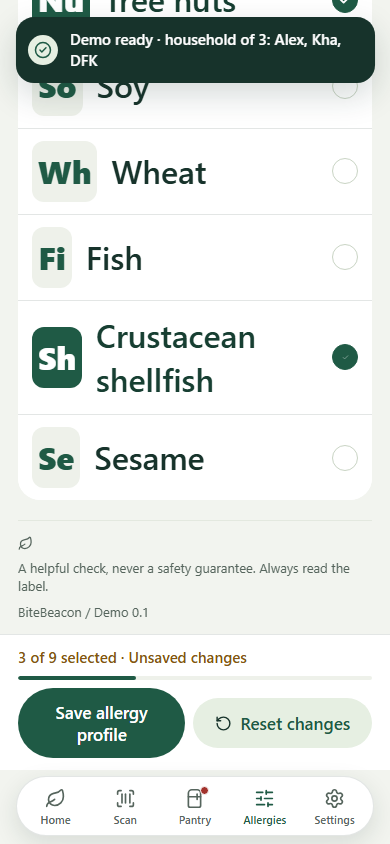
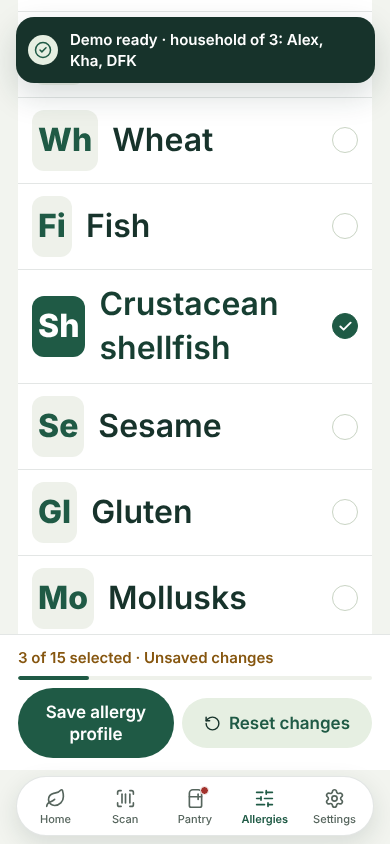
Add six more allergens: gluten, mollusks, mustard, celery, sulfites, lupin
Brings the list to 15, matching the EU/UK, Canada and Australia lists.
Gluten covers every gluten grain for celiac users; Wheat stays wheat-only.
Evidence now credits a shared word to each allergen that uses it.
New migration widens the allowed allergy ids on profiles and household members.

Claude-Session: https://claude.ai/code/session_01GomzdaNL28CGHYvwakV8Zu

diff --git a/src/i18n/bn.ts b/src/i18n/bn.ts
@@ -11,6 +11,7 @@ export const bn: Messages = {
 
   'allergen.milk': 'দুধ', 'allergen.eggs': 'ডিম', 'allergen.peanuts': 'চিনাবাদাম', 'allergen.tree-nuts': 'গাছের বাদাম', 'allergen.soy': 'সয়া',
   'allergen.wheat': 'গম', 'allergen.fish': 'মাছ', 'allergen.shellfish': 'খোলসযুক্ত প্রাণী (চিংড়ি, কাঁকড়া, লবস্টার)', 'allergen.sesame': 'তিল',
+  'allergen.gluten': 'গ্লুটেন', 'allergen.mollusks': 'মলাস্ক (ঝিনুক, স্কুইড)', 'allergen.mustard': 'সরিষা', 'allergen.celery': 'সেলারি', 'allergen.sulfites': 'সালফাইট', 'allergen.lupin': 'লুপিন',
 
   'common.cancel': 'বাতিল', 'common.unknown': 'অজানা', 'common.you': 'আপনি', 'common.listSeparator': ', ',
 
@@ -54,8 +55,8 @@ export const bn: Messages = {
   'samples.title': 'চেষ্টা করে দেখুন', 'samples.body': 'চারটি কাল্পনিক পণ্য। চারটি কাজের ফলাফল।', 'samples.label': 'ডেমো সংগ্রহ',
   'samples.try': '{name} চেষ্টা করুন', 'samples.fictional': 'কাল্পনিক নমুনা',
 
-  'allergies.title': 'আপনার অ্যালার্জি, সবার আগে।', 'allergies.body': 'যুক্তরাষ্ট্রের নয়টি প্রধান খাদ্য অ্যালার্জেন থেকে বেছে নিন। প্রযোজ্য সবগুলো নির্বাচন করুন।',
-  'allergies.notice': 'এই অ্যাপ সব অ্যালার্জি কভার করে না। গম মানে গ্লুটেন বা সিলিয়াক রোগের যাচাই নয়। খোলসযুক্ত প্রাণী (চিংড়ি, কাঁকড়া) বলতে ঝিনুক, শামুক বা স্কুইড জাতীয় মলাস্ক বোঝায় না।',
+  'allergies.title': 'আপনার অ্যালার্জি, সবার আগে।', 'allergies.body': '১৫টি সাধারণ খাদ্য অ্যালার্জেন থেকে বেছে নিন: যুক্তরাষ্ট্রের নয়টি প্রধান অ্যালার্জেন এবং ইউরোপ ও কানাডায় তালিকাভুক্ত আরও ছয়টি। প্রযোজ্য সবগুলো নির্বাচন করুন।',
+  'allergies.notice': 'এই অ্যাপ সব অ্যালার্জি কভার করে না। গম শুধু গম যাচাই করে; বার্লি, রাই ও ওটসও যাচাই করতে গ্লুটেন বেছে নিন। খোলসযুক্ত প্রাণী (চিংড়ি, কাঁকড়া) বলতে মলাস্ক বোঝায় না; ঝিনুক, শামুক বা স্কুইডের জন্য মলাস্ক বেছে নিন।',
   'allergies.hint': 'অ্যালার্জি প্রোফাইল সংরক্ষণ করার পর পরিবর্তন কার্যকর হবে।',
   'allergies.chooseOne': 'বারকোড যাচাই ব্যবহার করতে অন্তত একটি অ্যালার্জি বেছে নিন।',
   'allergies.savedDemo': 'অ্যালার্জি প্রোফাইল সংরক্ষিত হয়েছে। ফলাফল এখন এই নির্বাচন অনুযায়ী হবে। শুধু ডেমো: এই সেশন শেষ হওয়া পর্যন্ত পরিবর্তন থাকবে।',

diff --git a/src/domain/allergens.ts b/src/domain/allergens.ts
@@ -8,6 +8,14 @@ export const ALLERGENS = [
   { id: 'fish', plain: ['fish'] as string[], label: 'Fish', mark: 'Fi', tags: ['fish'], words: ['fish', 'salmon', 'tuna', 'cod', 'anchovy', 'anchovies', 'haddock'] },
   { id: 'shellfish', plain: [] as string[], label: 'Crustacean shellfish', mark: 'Sh', tags: ['crustaceans', 'shrimp', 'crab', 'lobster'], words: ['shrimp', 'prawn', 'prawns', 'crab', 'lobster', 'crayfish'] },
   { id: 'sesame', plain: ['sesame'] as string[], label: 'Sesame', mark: 'Se', tags: ['sesame-seeds', 'sesame'], words: ['sesame', 'tahini', 'benne'] },
+  // The six below complete the EU/UK, Canada and Australia lists. Open Food Facts tags them too; USDA only gives ingredient text.
+  // Gluten covers every gluten grain, wheat included, for people with celiac disease; Wheat stays wheat-only.
+  { id: 'gluten', plain: ['gluten'] as string[], label: 'Gluten', mark: 'Gl', tags: ['gluten'], words: ['gluten', 'wheat', 'semolina', 'spelt', 'durum', 'bulgur', 'farina', 'barley', 'rye', 'oat', 'oats', 'malt', 'malted', 'triticale', 'kamut', 'seitan', 'einkorn', 'emmer', 'farro'] },
+  { id: 'mollusks', plain: ['mollusk', 'mollusks', 'mollusc', 'molluscs'] as string[], label: 'Mollusks', mark: 'Mo', tags: ['molluscs', 'mollusks'], words: ['mollusk', 'mollusks', 'mollusc', 'molluscs', 'clam', 'clams', 'mussel', 'mussels', 'oyster', 'oysters', 'scallop', 'scallops', 'squid', 'calamari', 'octopus', 'cuttlefish', 'abalone', 'snail', 'snails', 'escargot', 'whelk', 'whelks', 'conch'] },
+  { id: 'mustard', plain: ['mustard'] as string[], label: 'Mustard', mark: 'Mu', tags: ['mustard'], words: ['mustard'] },
+  { id: 'celery', plain: ['celery'] as string[], label: 'Celery', mark: 'Ce', tags: ['celery'], words: ['celery', 'celeriac'] },
+  { id: 'sulfites', plain: ['sulfite', 'sulfites', 'sulphite', 'sulphites', 'sulfur dioxide', 'sulphur dioxide'] as string[], label: 'Sulfites', mark: 'Su', tags: ['sulphur-dioxide-and-sulphites', 'sulfites', 'sulphites'], words: ['sulfite', 'sulfites', 'sulphite', 'sulphites', 'sulfur dioxide', 'sulphur dioxide', 'bisulfite', 'bisulphite', 'metabisulfite', 'metabisulphite', 'e220', 'e221', 'e222', 'e223', 'e224', 'e225', 'e226', 'e227', 'e228'] },
+  { id: 'lupin', plain: ['lupin', 'lupine'] as string[], label: 'Lupin', mark: 'Lu', tags: ['lupin'], words: ['lupin', 'lupine', 'lupini'] },
 ] as const;
 export type AllergenId = typeof ALLERGENS[number]['id'];
 export type Product = {
@@ -78,8 +86,9 @@ export function explain(product: Product, selected: AllergenId[]): Evidence[] {
     for (const t of product.traces) if ((a.tags as readonly string[]).includes(tag(t))) add({ allergen: a.label, via: 'trace', term: clean(t) });
   }
   // A plain word adds nothing once a tag already names that allergen ("milk" next to tag "milk"); hidden sources always stay.
+  // Each allergen is scanned on its own, so a word shared by two ("wheat" for Wheat and Gluten) is evidence for both.
   const tagged = new Set(out.filter(e => e.via === 'tag').map(e => e.allergen));
-  for (const s of highlightIngredients(product.ingredients, selected)) if (s.allergen && (s.hidden || !tagged.has(s.allergen))) add({ allergen: s.allergen, via: s.hidden ? 'hidden' : 'ingredient', term: s.text.toLowerCase() });
+  for (const id of selected) for (const s of highlightIngredients(product.ingredients, [id])) if (s.allergen && (s.hidden || !tagged.has(s.allergen))) add({ allergen: s.allergen, via: s.hidden ? 'hidden' : 'ingredient', term: s.text.toLowerCase() });
   // Group by allergen so each one's reasons read together; within one, hidden sources lead because they are the ones people miss.
   const order = (e: Evidence) => ALLERGENS.findIndex(a => a.label === e.allergen) * 10 + ['hidden', 'tag', 'ingredient', 'trace'].indexOf(e.via);
   return out.sort((x, y) => order(x) - order(y));

diff --git a/src/i18n/vi.ts b/src/i18n/vi.ts
@@ -11,6 +11,7 @@ export const vi: Messages = {
 
   'allergen.milk': 'Sữa', 'allergen.eggs': 'Trứng', 'allergen.peanuts': 'Đậu phộng (lạc)', 'allergen.tree-nuts': 'Các loại hạt cây', 'allergen.soy': 'Đậu nành',
   'allergen.wheat': 'Lúa mì', 'allergen.fish': 'Cá', 'allergen.shellfish': 'Động vật giáp xác (tôm, cua…)', 'allergen.sesame': 'Mè (vừng)',
+  'allergen.gluten': 'Gluten', 'allergen.mollusks': 'Động vật thân mềm (nghêu, hàu, mực…)', 'allergen.mustard': 'Mù tạt', 'allergen.celery': 'Cần tây', 'allergen.sulfites': 'Sulfit', 'allergen.lupin': 'Đậu lupin',
 
   'common.cancel': 'Hủy', 'common.unknown': 'không rõ', 'common.you': 'Bạn', 'common.listSeparator': ', ',
 
@@ -54,8 +55,8 @@ export const vi: Messages = {
   'samples.title': 'Thử ngay', 'samples.body': 'Bốn sản phẩm hư cấu. Bốn kết quả hữu ích.', 'samples.label': 'BỘ SƯU TẬP DEMO',
   'samples.try': 'Thử {name}', 'samples.fictional': 'Mẫu hư cấu',
 
-  'allergies.title': 'Dị ứng của bạn, luôn được ưu tiên.', 'allergies.body': 'Chọn từ chín chất gây dị ứng thực phẩm chính tại Mỹ. Chọn tất cả những gì áp dụng.',
-  'allergies.notice': 'Ứng dụng này không bao gồm mọi loại dị ứng. Lúa mì không phải là kiểm tra gluten hay bệnh celiac. Động vật giáp xác không bao gồm động vật thân mềm.',
+  'allergies.title': 'Dị ứng của bạn, luôn được ưu tiên.', 'allergies.body': 'Chọn từ 15 chất gây dị ứng thực phẩm phổ biến: chín chất chính tại Mỹ và sáu chất khác được liệt kê ở châu Âu và Canada. Chọn tất cả những gì áp dụng.',
+  'allergies.notice': 'Ứng dụng này không bao gồm mọi loại dị ứng. Lúa mì chỉ kiểm tra lúa mì; hãy chọn Gluten để kiểm tra cả lúa mạch, lúa mạch đen và yến mạch. Động vật giáp xác không bao gồm động vật thân mềm; hãy chọn Động vật thân mềm cho nghêu, hàu và mực.',
   'allergies.hint': 'Thay đổi có hiệu lực sau khi lưu hồ sơ dị ứng.',
   'allergies.chooseOne': 'Chọn ít nhất một loại dị ứng để dùng chức năng kiểm tra mã vạch.',
   'allergies.savedDemo': 'Đã lưu hồ sơ dị ứng. Kết quả giờ dùng các lựa chọn này. Chỉ là demo: thay đổi giữ đến khi phiên này kết thúc.',

diff --git a/tests/allergens.test.ts b/tests/allergens.test.ts
@@ -35,6 +35,24 @@ describe('allergy decisions', () => {
   it.each(ALLERGENS)('matches structured tags for $label', allergen => {
     expect(assess({ ...SAMPLES[2], allergens: [`en:${allergen.tags[0]}`] }, [allergen.id]).kind).toBe('contains');
   });
+  it.each([
+    ['gluten', 'Water, barley malt, salt.'], ['gluten', 'Rolled oats.'], ['gluten', 'Enriched wheat flour.'],
+    ['mollusks', 'Oyster sauce, garlic.'], ['mollusks', 'Fried calamari.'], ['mustard', 'Vinegar, mustard seed.'],
+    ['celery', 'Carrot, celery, onion.'], ['sulfites', 'Grapes, sodium metabisulfite.'], ['sulfites', 'Apricots, sulphur dioxide.'],
+    ['sulfites', 'Lemon juice, preservative (E223).'], ['lupin', 'Lupin flour, rice.'],
+  ] as [AllergenId, string][])('finds %s in "%s"', (id, ingredients) => {
+    expect(assess({ ...SAMPLES[2], ingredients }, [id]).kind).toBe('contains');
+  });
+  it('keeps Wheat wheat-only while Gluten covers every gluten grain', () => {
+    const rye = { ...SAMPLES[2], ingredients: 'Rye flour, water, salt.' };
+    expect(assess(rye, ['wheat']).kind).not.toBe('contains');
+    expect(assess(rye, ['gluten']).kind).toBe('contains');
+    expect(assess({ ...SAMPLES[2], ingredients: 'Maltodextrin, sugar.' }, ['gluten']).kind).not.toBe('contains');
+  });
+  it('treats a structured gluten tag as a match when Gluten is selected', () => {
+    expect(assess({ ...SAMPLES[2], allergens: ['en:gluten'] }, ['gluten']).kind).toBe('contains');
+    expect(assess({ ...SAMPLES[2], allergens: ['en:gluten'] }, ['wheat']).reason).toBe('gluten');
+  });
   it('recalculates for changed allergies', () => {
     expect(assess(SAMPLES[0], ['sesame']).kind).toBe('no-match');
     expect(assess(SAMPLES[0], ['milk']).kind).toBe('contains');
@@ -58,6 +76,10 @@ describe('provider normalization', () => {
   });
 });
 describe('result evidence', () => {
+  it('credits a shared word to every selected allergen that uses it', () => {
+    const e = explain({ ...SAMPLES[2], ingredients: 'Wheat flour, water.' }, ['wheat', 'gluten']);
+    expect(e.map(x => x.allergen)).toEqual(['Wheat', 'Gluten']);
+  });
   const base = { ...SAMPLES[2], allergens: [], traces: [] };
   it('highlights the exact ingredient words that matched, keeping the original text', () => {
     const segs = highlightIngredients('Sugar, Whey powder, tahini.', ['milk', 'sesame']);

diff --git a/src/i18n/es.ts b/src/i18n/es.ts
@@ -11,6 +11,7 @@ export const es: Messages = {
 
   'allergen.milk': 'Leche', 'allergen.eggs': 'Huevo', 'allergen.peanuts': 'Cacahuate (maní)', 'allergen.tree-nuts': 'Nueces de árbol', 'allergen.soy': 'Soya',
   'allergen.wheat': 'Trigo', 'allergen.fish': 'Pescado', 'allergen.shellfish': 'Mariscos crustáceos', 'allergen.sesame': 'Ajonjolí (sésamo)',
+  'allergen.gluten': 'Gluten', 'allergen.mollusks': 'Moluscos', 'allergen.mustard': 'Mostaza', 'allergen.celery': 'Apio', 'allergen.sulfites': 'Sulfitos', 'allergen.lupin': 'Altramuz (lupino)',
 
   'common.cancel': 'Cancelar', 'common.unknown': 'desconocido', 'common.you': 'Tú', 'common.listSeparator': ', ',
 
@@ -54,8 +55,8 @@ export const es: Messages = {
   'samples.title': 'Pruébala', 'samples.body': 'Cuatro productos ficticios. Cuatro resultados útiles.', 'samples.label': 'COLECCIÓN DEMO',
   'samples.try': 'Probar {name}', 'samples.fictional': 'Ejemplo ficticio',
 
-  'allergies.title': 'Tus alergias, en primer plano.', 'allergies.body': 'Elige entre los nueve alérgenos alimentarios principales de EE. UU. Selecciona todos los que apliquen.',
-  'allergies.notice': 'Esta app no cubre todas las alergias. Trigo no es una revisión de gluten ni de enfermedad celíaca. Mariscos crustáceos no incluye moluscos.',
+  'allergies.title': 'Tus alergias, en primer plano.', 'allergies.body': 'Elige entre 15 alérgenos alimentarios comunes: los nueve principales de EE. UU. y seis más que se declaran en Europa y Canadá. Selecciona todos los que apliquen.',
+  'allergies.notice': 'Esta app no cubre todas las alergias. Trigo solo revisa el trigo; elige Gluten para revisar también cebada, centeno y avena. Mariscos crustáceos no incluye moluscos; elige Moluscos para almejas, ostras y calamares.',
   'allergies.hint': 'Los cambios se aplican después de guardar tu perfil de alergias.',
   'allergies.chooseOne': 'Elige al menos una alergia para usar la revisión por código de barras.',
   'allergies.savedDemo': 'Perfil de alergias guardado. Los resultados ahora usan estas selecciones. Solo demo: los cambios duran hasta que termine esta sesión.',

diff --git a/tests/database.test.ts b/tests/database.test.ts
@@ -19,6 +19,7 @@ beforeAll(async () => {
   await db.exec(readFileSync('supabase/migrations/202610140001_household_members.sql', 'utf8'));
   await db.exec(readFileSync('supabase/migrations/202610140002_profile_language.sql', 'utf8'));
   await db.exec(readFileSync('supabase/migrations/202610150001_pantry_items.sql', 'utf8'));
+  await db.exec(readFileSync('supabase/migrations/202610150003_more_allergens.sql', 'utf8'));
 });
 afterAll(async () => { await db?.close(); });
 async function asUser(id: string) { await db.exec(`reset role; set role authenticated; select set_config('request.jwt.claim.sub','${id}', false);`); }
@@ -177,5 +178,19 @@ describe('pantry items', () => {
     expect((await db.query('select id from public.pantry_items where owner_id = $1', [G])).rows).toHaveLength(0);
     await db.exec('set role anon;');
     await expect(db.query('select * from public.pantry_items')).rejects.toThrow(/permission denied/);
+  });
+});
+
+describe('more allergens', () => {
+  const H = '88888888-8888-4888-8888-888888888888';
+  const all15 = "array['milk','eggs','peanuts','tree-nuts','soy','wheat','fish','shellfish','sesame','gluten','mollusks','mustard','celery','sulfites','lupin']";
+  it('accepts all 15 allergens for profiles and household members, and still rejects unknown ones', async () => {
+    await db.exec(`reset role; insert into auth.users values ('${H}');`);
+    await asUser(H);
+    await db.query(`insert into public.profiles(id, allergies, consent_version) values ($1, ${all15}, '2026-09-30')`, [H]);
+    expect((await db.query<{ allergies: string[] }>('select allergies from public.profiles where id = $1', [H])).rows[0].allergies).toHaveLength(15);
+    await db.query(`insert into public.household_members(name, allergies) values ('Sam', array['gluten','mollusks'])`);
+    await expect(db.query(`update public.profiles set allergies = array['banana'] where id = $1`, [H])).rejects.toThrow(/supported_allergies/);
+    await expect(db.query(`insert into public.household_members(name, allergies) values ('Kim', array['kiwi'])`)).rejects.toThrow(/member_supported_allergies/);
   });
 });

diff --git a/src/i18n/zh.ts b/src/i18n/zh.ts
@@ -11,6 +11,7 @@ export const zh: Messages = {
 
   'allergen.milk': '牛奶', 'allergen.eggs': '鸡蛋', 'allergen.peanuts': '花生', 'allergen.tree-nuts': '树坚果', 'allergen.soy': '大豆',
   'allergen.wheat': '小麦', 'allergen.fish': '鱼类', 'allergen.shellfish': '甲壳类水产', 'allergen.sesame': '芝麻',
+  'allergen.gluten': '麸质', 'allergen.mollusks': '软体动物', 'allergen.mustard': '芥末', 'allergen.celery': '芹菜', 'allergen.sulfites': '亚硫酸盐', 'allergen.lupin': '羽扇豆',
 
   'common.cancel': '取消', 'common.unknown': '未知', 'common.you': '你', 'common.listSeparator': '、',
 
@@ -54,8 +55,8 @@ export const zh: Messages = {
   'samples.title': '试一试', 'samples.body': '四款虚构商品，四种实用结果。', 'samples.label': '演示合集',
   'samples.try': '试试 {name}', 'samples.fictional': '虚构示例',
 
-  'allergies.title': '你的过敏原，一目了然。', 'allergies.body': '从美国九大主要食物过敏原中选择，可多选。',
-  'allergies.notice': '本应用无法涵盖所有过敏。小麦不等于麸质检查，也不能用于乳糜泻检查。甲壳类水产不包括软体动物。',
+  'allergies.title': '你的过敏原，一目了然。', 'allergies.body': '从15种常见食物过敏原中选择：美国九大主要过敏原，另加欧洲和加拿大列出的六种。可多选。',
+  'allergies.notice': '本应用无法涵盖所有过敏。“小麦”只检查小麦；如需同时检查大麦、黑麦和燕麦，请选择“麸质”。甲壳类水产不包括软体动物；如需检查蛤蜊、牡蛎和鱿鱼，请选择“软体动物”。',
   'allergies.hint': '保存过敏档案后，更改才会生效。',
   'allergies.chooseOne': '请至少选择一种过敏原，才能使用条码检查。',
   'allergies.savedDemo': '过敏档案已保存，结果将使用这些选择。仅限演示：更改在本次会话结束前有效。',

diff --git a/src/i18n/en.ts b/src/i18n/en.ts
@@ -11,6 +11,7 @@ export const en = {
 
   'allergen.milk': 'Milk', 'allergen.eggs': 'Eggs', 'allergen.peanuts': 'Peanuts', 'allergen.tree-nuts': 'Tree nuts', 'allergen.soy': 'Soy',
   'allergen.wheat': 'Wheat', 'allergen.fish': 'Fish', 'allergen.shellfish': 'Crustacean shellfish', 'allergen.sesame': 'Sesame',
+  'allergen.gluten': 'Gluten', 'allergen.mollusks': 'Mollusks', 'allergen.mustard': 'Mustard', 'allergen.celery': 'Celery', 'allergen.sulfites': 'Sulfites', 'allergen.lupin': 'Lupin',
 
   'common.cancel': 'Cancel', 'common.unknown': 'unknown', 'common.you': 'You', 'common.listSeparator': ', ',
 
@@ -54,8 +55,8 @@ export const en = {
   'samples.title': 'Give it a try', 'samples.body': 'Four fictional products. Four useful outcomes.', 'samples.label': 'DEMO COLLECTION',
   'samples.try': 'Try {name}', 'samples.fictional': 'Fictional sample',
 
-  'allergies.title': 'Your allergies, front and center.', 'allergies.body': 'Choose from the nine US major food allergens. Select all that apply.',
-  'allergies.notice': 'This app does not cover every allergy. Wheat is not a gluten or celiac-disease check. Crustacean shellfish does not cover mollusks.',
+  'allergies.title': 'Your allergies, front and center.', 'allergies.body': 'Choose from 15 common food allergens: the nine US major allergens plus six more listed in Europe and Canada. Select all that apply.',
+  'allergies.notice': 'This app does not cover every allergy. Wheat checks wheat only; choose Gluten to also check barley, rye and oats. Crustacean shellfish does not cover mollusks; choose Mollusks for clams, oysters and squid.',
   'allergies.hint': 'Changes apply after saving your allergy profile.',
   'allergies.chooseOne': 'Choose at least one allergy to use barcode checking.',
   'allergies.savedDemo': 'Allergy profile saved. Results now use these selections. Demo only: changes last until this session ends.',

diff --git a/tests/e2e/demo.spec.ts b/tests/e2e/demo.spec.ts
@@ -64,7 +64,7 @@ test('small phone allergy controls stay reachable and navigation resets scroll',
   await expect(save).toBeInViewport();
   await expect(page.getByRole('heading', { name: 'Your allergies, front and center.' })).toBeInViewport();
   await page.getByRole('checkbox', { name: 'Crustacean shellfish', exact: true }).click();
-  await expect(page.getByText('3 of 9 selected · Unsaved changes')).toBeVisible();
+  await expect(page.getByText('3 of 15 selected · Unsaved changes')).toBeVisible();
   await expect(save).toBeInViewport();
   await page.getByRole('button', { name: 'Reset changes' }).click();
   await expect(page.getByRole('checkbox', { name: 'Crustacean shellfish', exact: true })).not.toBeChecked();

diff --git a/wiki/README.md b/wiki/README.md
@@ -73,7 +73,7 @@ Latest final results recorded after implementation below. See `tests/` for repea
 
 - Main content now has a bounded flexible scroll area; switching pages mounts a fresh scroll view so previous page scroll positions cannot hide new headings.
 - Replaced tall allergy tiles with compact, full-width rows on phones. Wider layouts use percentage columns; large native font scales switch to one column. Labels wrap without truncation or fixed row heights.
-- Allergy Save controls remain outside scrolling content, above navigation. Selection count, unsaved status, Reset changes and save/error feedback remain reachable while browsing all nine choices. Reset restores saved selections; only successful Save changes assessment profile. Unsaved drafts survive navigation.
+- Allergy Save controls remain outside scrolling content, above navigation. Selection count, unsaved status, Reset changes and save/error feedback remain reachable while browsing all 15 choices. Reset restores saved selections; only successful Save changes assessment profile. Unsaved drafts survive navigation.
 - Larger mobile navigation labels and padded targets; wrapping button labels/header; page heading semantics, live feedback and checkbox hints/disabled state. Explicit aria-checked fixes missing checked semantics in React Native Web while keeping native accessibilityState.
 - Validation: TypeScript passed; all 47 domain/database tests passed; four deterministic Playwright flows passed, including 320 x 640 scrolling, last allergy reachability, persistent Save/feedback, reset, navigation scroll reset and 390 x 844 enlarged-label wrapping. Mobile screenshots inspected. Production web export passed.
 - Browser enlarged-label fixture is not native font-scaling validation. Physical iOS/Android Dynamic Type, VoiceOver/TalkBack, keyboard and short-landscape acceptance remain pending. No Lua/Luau changed; Selene not applicable.
@@ -166,3 +166,11 @@ Latest final results recorded after implementation below. See `tests/` for repea
 - Copy updated in all five languages: sign-up consent now says pantry products are stored; App details explains browser sessions; web camera note.
 - Hosting checklist still open: set Supabase Auth Site URL + redirect URLs to the domain; move USDA lookups behind a Supabase Edge Function so the key is not in the page; HTTPS (most hosts automatic). If the site is served from a sub-path, the decoder URL follows `document.baseURI`.
 - Validation: TypeScript passed; 103 unit/database tests passed (new decoder-copy check); 17 Playwright flows passed, live skipped. New `web-camera.spec.ts` feeds Chromium a generated EAN-13 video as the camera and checks scan → lookup → result, with the decoder loaded from localhost only. New `stay-signed-in.spec.ts` mocks Supabase Auth/REST locally: stays signed in across reload, sign-out clears it, off ends it at reload, choice remembered. `npm run build:web` output checked for the decoder. Real phones/browsers (iOS Safari, Android Chrome) and the hosted domain still need QA. No Lua/Luau changed; Selene not applicable.
+
+## Six more allergens (15 in total) — 2026-10-15
+
+- Added **gluten, mollusks, mustard, celery, sulfites, lupin** to `ALLERGENS` (`src/domain/allergens.ts`). Together with the nine US majors this completes the EU/UK, Canada and Australia lists. Open Food Facts tags all six (`en:gluten`, `en:molluscs`, `en:mustard`, `en:celery`, `en:sulphur-dioxide-and-sulphites`, `en:lupin`); USDA products are matched by ingredient words only.
+- **Gluten** covers every gluten grain (wheat words plus barley, rye, oats, malt, triticale, kamut, seitan, einkorn, emmer, farro) for celiac users. **Wheat** stays wheat-only, so a product tagged only "gluten" still reads "Not enough information" for Wheat. Sulfites also match E220–E228.
+- `explain()` now scans each selected allergen separately, so a word shared by two allergens ("wheat" for Wheat and Gluten) is evidence for both.
+- Migration `202610150003_more_allergens.sql` widens `supported_allergies` (profiles) and `member_supported_allergies` (household members) to the 15 ids and 1–15 entries. Until it runs on the hosted project, saving a new allergen to a signed-in profile fails; demo mode works without it.
+- Allergy page intro and notice rewritten (Wheat vs Gluten, Crustacean shellfish vs Mollusks). Machine-drafted translations in every language; need native review.

diff --git a/docs/EMPLOYER-BRIEF.md b/docs/EMPLOYER-BRIEF.md
@@ -13,7 +13,7 @@ This is decision-support information, not a guarantee that a food is safe. A bar
 | Feature | Current status |
 |---|---|
 | Responsive dashboard and navigation | Working React Native screens, browser-tested at desktop and phone widths |
-| Allergy profile editor | Working; nine US major allergen groups, multiple selections |
+| Allergy profile editor | Working; 15 allergen groups (nine US major plus gluten, mollusks, mustard, celery, sulfites, lupin), multiple selections |
 | Demo session | Working without credentials; local memory only, starts with milk and peanuts |
 | Barcode lookup | USDA FoodData Central (manufacturer-submitted) first, Open Food Facts fallback |
 | Native camera scanning | Implemented using Expo Camera; physical-device acceptance still required |

diff --git a/README.md b/README.md
@@ -1,6 +1,6 @@
 # BiteBeacon
 
-React Native / Expo allergy-aware barcode demo. US-first, with nine major allergen groups. Built from scratch in this workspace.
+React Native / Expo allergy-aware barcode demo. US-first, with 15 allergen groups: the nine US major allergens plus gluten, mollusks, mustard, celery, sulfites and lupin. Built from scratch in this workspace.
 
 ## Run the demo
 
